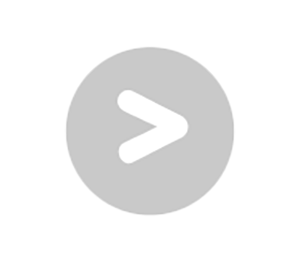
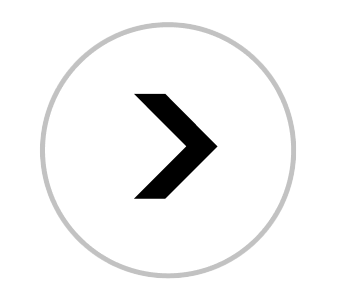
fix: swiper 버그 수정

diff --git a/client/src/components/Banner.js b/client/src/components/Banner.js
@@ -1,28 +1,23 @@
 /** @jsxImportSource @emotion/react */
 import React from "react";
 import { css } from "@emotion/react";
+import { PALETTE } from "../Common";
 import 배너이미지1 from "../assets/bannerImg/배너이미지1.png";
 import 배너이미지2 from "../assets/bannerImg/배너이미지2.png";
 import 배너이미지3 from "../assets/bannerImg/배너이미지3.png";
 import right from "../assets/right.png";
 import left from "../assets/left.png";
 import { Swiper, SwiperSlide } from "swiper/react";
-import { Navigation, Pagination, Autoplay } from "swiper";
-import SwiperCore from "swiper/core";
+import SwiperCore, { Navigation, Pagination, Autoplay } from "swiper";
 import "swiper/css";
 import "swiper/css/navigation";
 import "swiper/css/pagination";
-import "swiper/css/scrollbar";
 import "swiper/css/autoplay";
-import { PALETTE } from "../Common";
 
-
+SwiperCore.use([Navigation, Pagination, Autoplay]);
 const Banner = () => {
     const swiperOption = {
         spaceBetween: 50,
-        scrollbar: {
-            draggable: true,
-        },
         navigation: true,
         pagination: {
             clickable: true,
@@ -55,7 +50,7 @@ const Banner = () => {
 const wrap = css`
     display: flex;
     height: 300px;
-    margin: 20px auto; //RegionItems relative로 되어있어서 그 공간을 땡김
+    margin: 20px auto;
     width: 1440px;
     @media (max-width: 1440px) {
         width: 1200px;
@@ -79,7 +74,7 @@ const swiperStyle = css`
         margin-top: 40px;
         background: black;
     }
-    /* .swiper-button-next {
+    .swiper-button-next {
         background: url(${right}) no-repeat;
         right: 0;
         background-size: 140% auto;
@@ -96,7 +91,7 @@ const swiperStyle = css`
     .swiper-button-next::after,
     .swiper-button-prev::after {
         display: none;
-    } */
+    }
 `;
 
 export default Banner;

diff --git a/client/src/pages/Home.js b/client/src/pages/Home.js
@@ -7,22 +7,18 @@ import Categorybar from "../components/Categorybar";
 import Banner from "../components/Banner";
 import Footer from "../components/Footer";
 import { Swiper, SwiperSlide } from "swiper/react";
-import { Navigation, Pagination, Autoplay } from "swiper";
-import SwiperCore from "swiper/core";
+import SwiperCore, { Navigation, Pagination, Autoplay } from "swiper";
 import "swiper/css";
 import "swiper/css/navigation";
 import "swiper/css/pagination";
-import "swiper/css/scrollbar";
 import "swiper/css/autoplay";
 import right from "../assets/right.png";
 import left from "../assets/left.png";
+SwiperCore.use([Navigation, Pagination, Autoplay]);
 
 const Home = () => {
     const swiperOption = {
         spaceBetween: 10,
-        // scrollbar: {
-        //     draggable: true,
-        // },
         slidesPerView: 5,
         navigation: true,
         breakpoints: {
